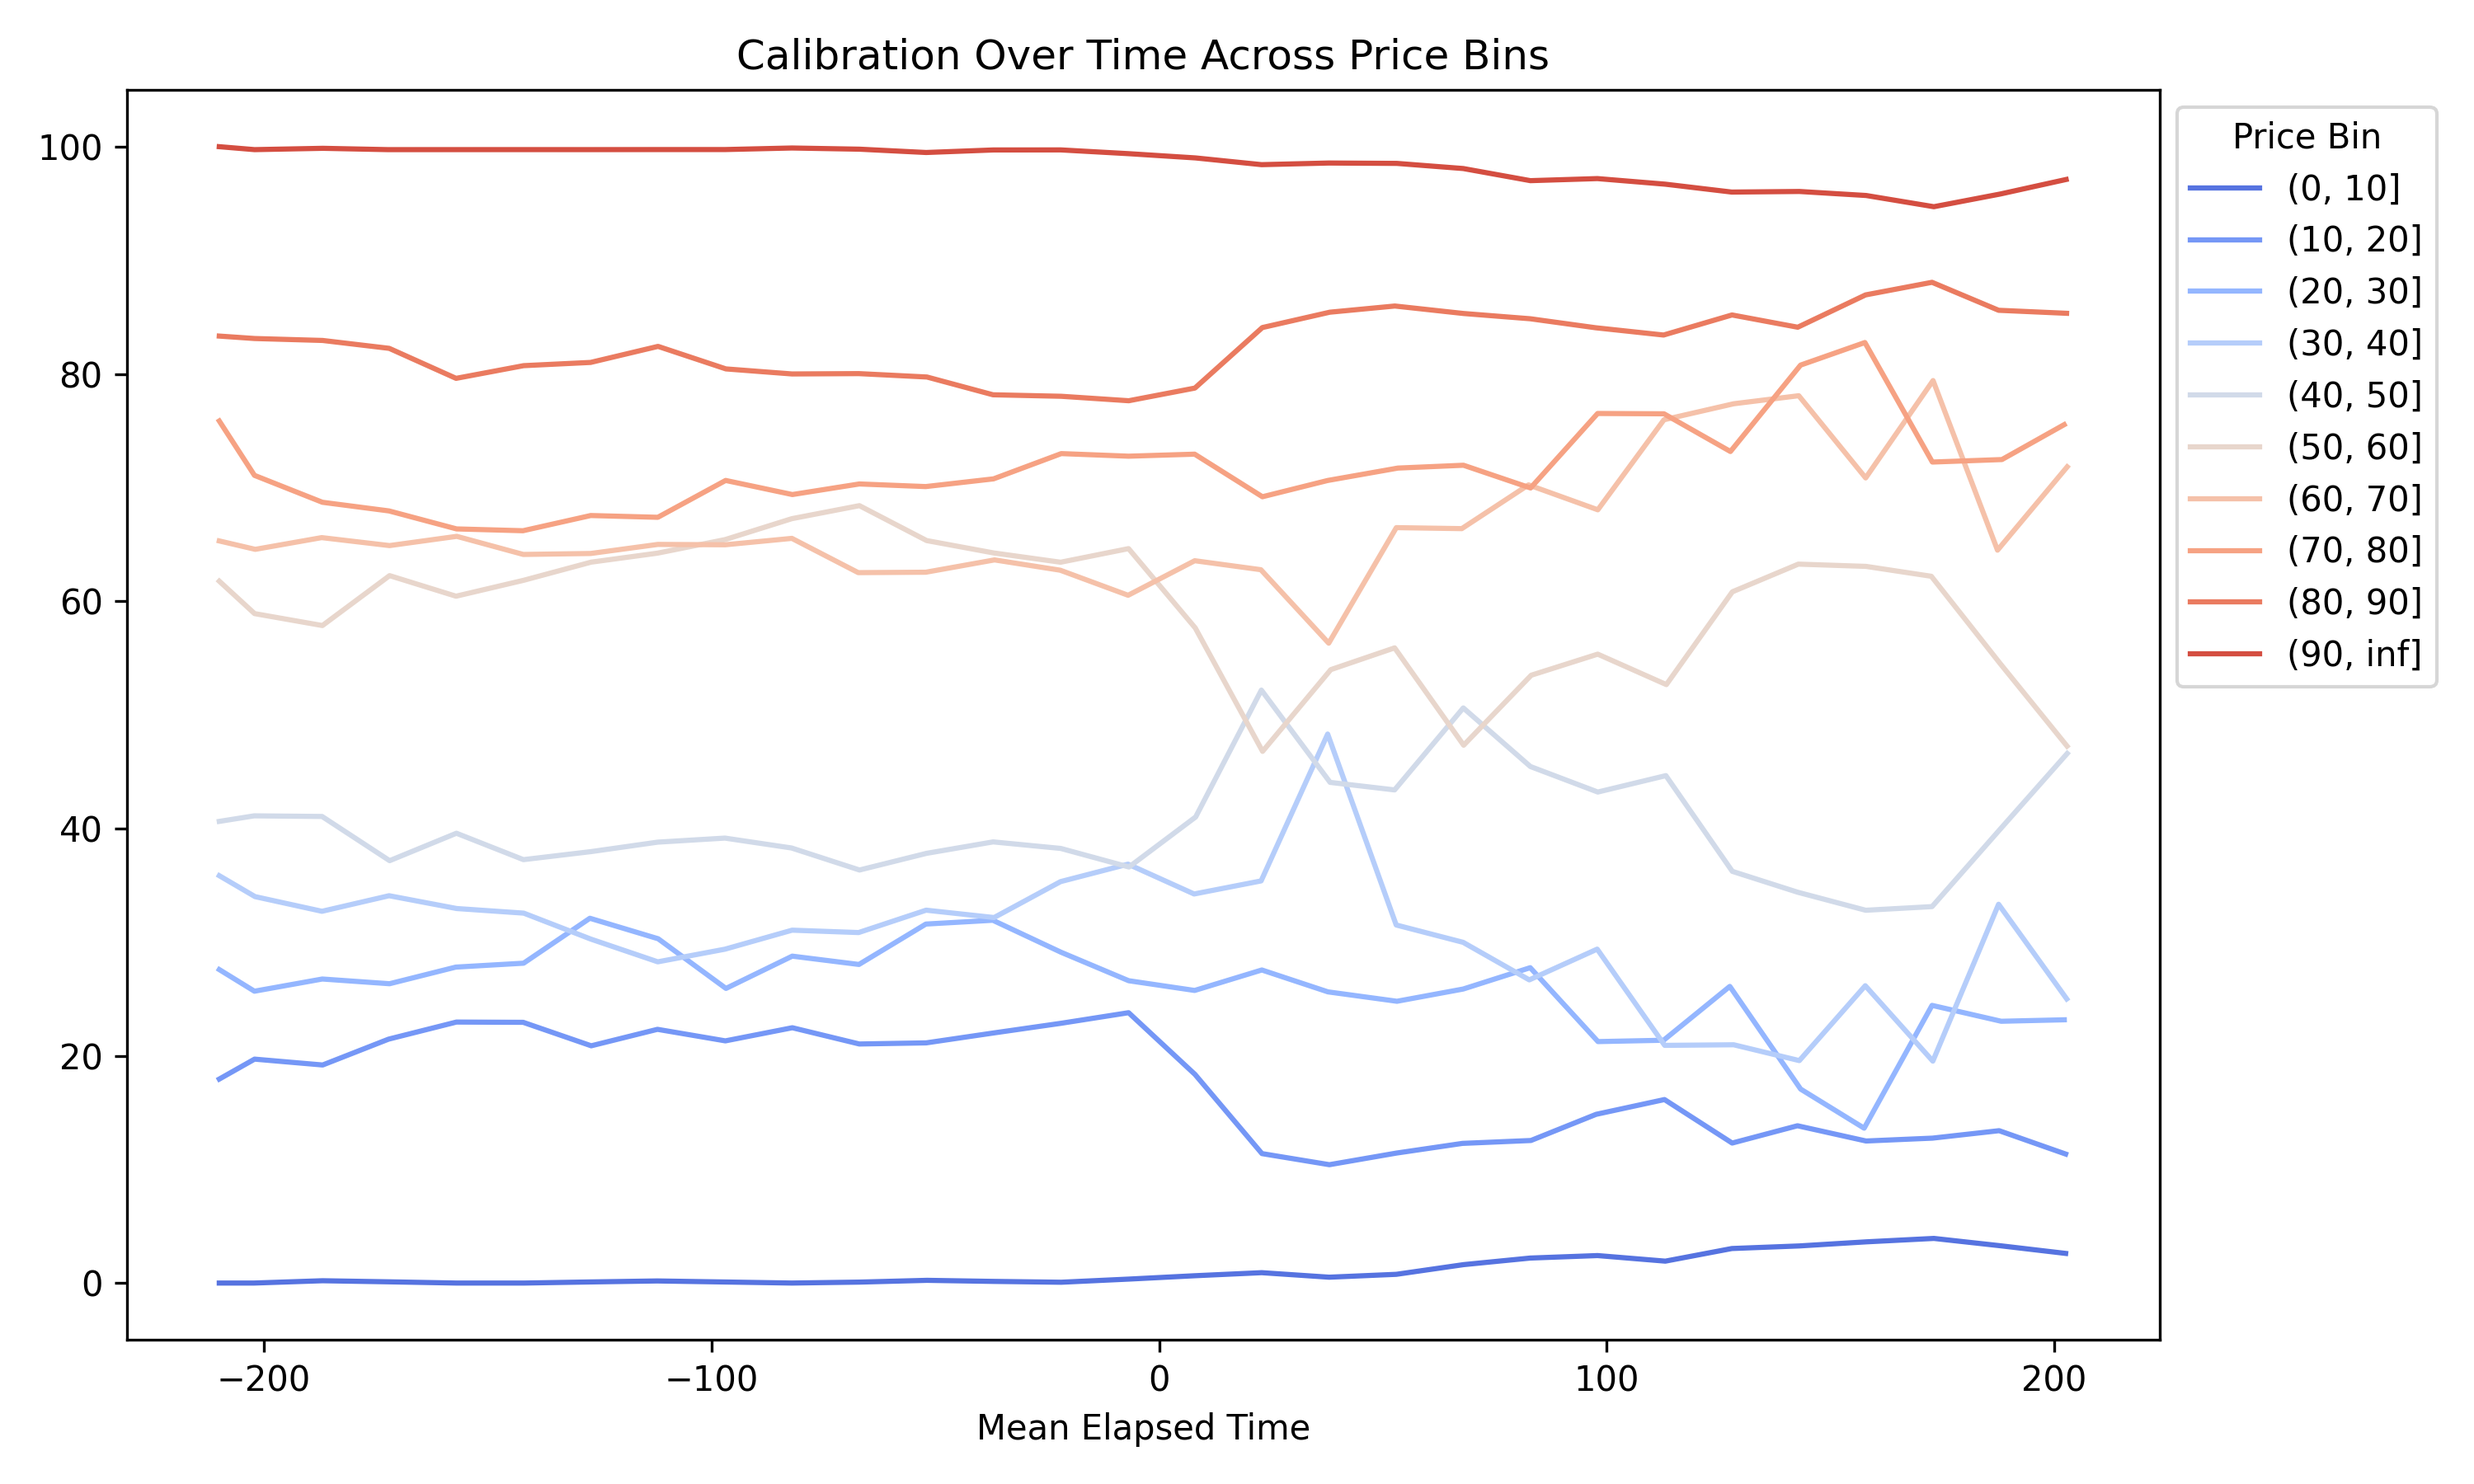
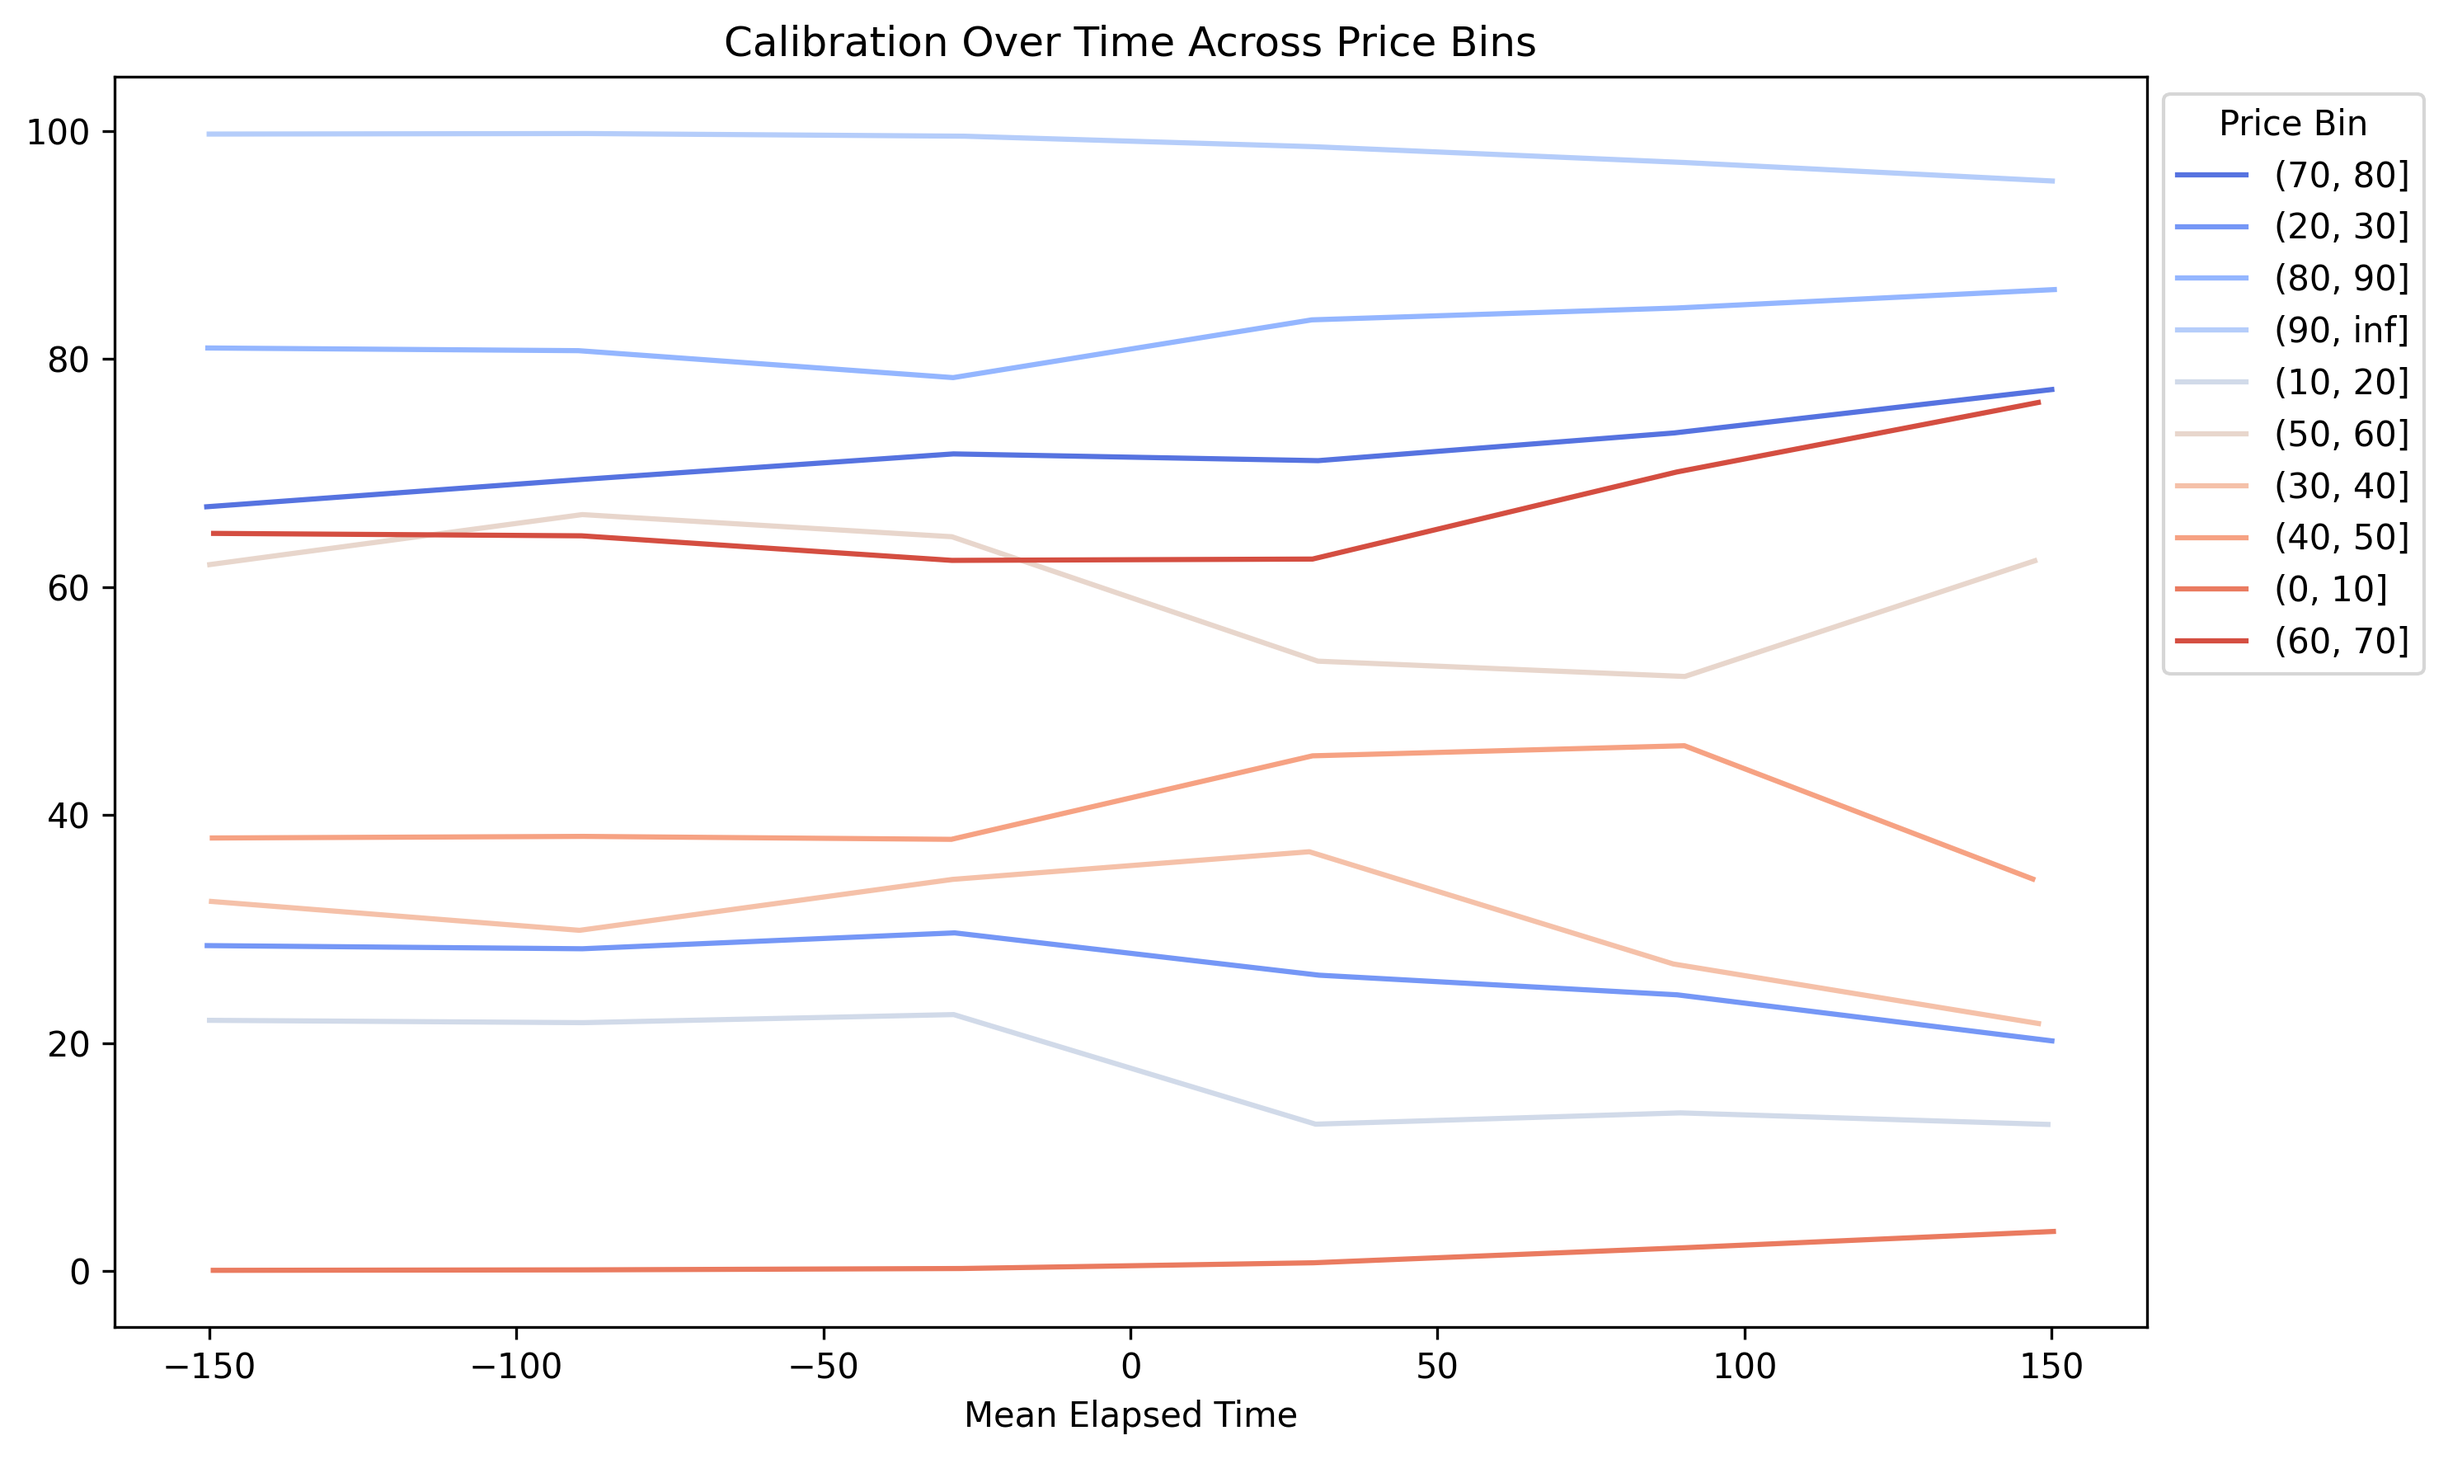
Improved experiment 2 plots.

diff --git a/nt_research/research/merger_arbitrage/experiment_2.py b/nt_research/research/merger_arbitrage/experiment_2.py
@@ -73,37 +73,44 @@ def create_calibration_over_time_chart(
             pl.col("price_bin").eq("(90, inf]")
         ).sort("trade_time_mean")
 
-    plt.figure(figsize=(10, 6))
+    _, ax = plt.subplots(figsize=(10, 6))
 
     # Lines
     if price_bin is not None:
-        aggregate_trades = (
-            aggregate_trades
-            .unpivot(index=['time_bin', 'price_bin'], on=['price_mean', 'result_mean', 'tstat']) 
+        aggregate_trades_sorted = aggregate_trades.sort(
+            pl.col("time_bin").str.extract(r"\((-?\d+)", 1).cast(pl.Int64)
+        )
+
+        tstat_values = aggregate_trades_sorted['tstat'].to_list()
+        time_bins = aggregate_trades_sorted['time_bin'].to_list()
+
+        aggregate_trades_unpivot = (
+            aggregate_trades_sorted
+            .unpivot(index=['time_bin', 'price_bin'], on=['price_mean', 'result_mean', 'tstat'])
+            .filter(
+                pl.col('variable').ne('tstat')
+            )
             .sort(
                 pl.col("time_bin").str.extract(r"\((-?\d+)", 1).cast(pl.Int64),
                 'variable'
             )
         )
 
-        tstat = (
-            aggregate_trades
-            .filter(
-                pl.col('variable').eq('tstat')
-            )
-            .sort(
-                pl.col("time_bin").str.extract(r"\((-?\d+)", 1).cast(pl.Int64),
-            )            
-            ['value'].to_list()
+        sns.barplot(
+            aggregate_trades_unpivot, x="time_bin", y="value", hue='variable', palette='gray', ax=ax
         )
 
-        sns.barplot(
-            aggregate_trades, x="time_bin", y="value", hue='variable', palette='gray'
-        )
+        labels = [f"{tb}\n($\\bf{{{ts:.2f}}}$)" for tb, ts in zip(time_bins, tstat_values)]
+        ax.set_xticks(range(len(labels)))
+        ax.set_xticklabels(labels)
+
+        # Get handles and labels from the plot
+        handles, _ = ax.get_legend_handles_labels()
+        ax.legend(handles, ['Price Mean', 'Result Mean'])
 
         match price_bin:
             case "(90, inf]":
-                plt.ylim(90, 100)
+                ax.set_ylim(90, 100)
 
             case _:
                 raise ValueError(f"Unsupported price bin: {price_bin}")
@@ -115,20 +122,22 @@ def create_calibration_over_time_chart(
             y="result_mean",
             hue="price_bin",
             palette="coolwarm",
+            ax=ax
         )
 
     # Format
-    plt.title(title)
-    plt.ylabel(None)
-    plt.xlabel("Mean Elapsed Time")
+    ax.set_title(title)
+    ax.set_ylabel(None)
+    ax.set_xlabel("Time Bin\n($\\bf{T\\text{-}stat}$)" if price_bin is not None else "Mean Elapsed Time")
 
     if price_bin is None:
-        plt.legend(title="Price Bin", bbox_to_anchor=(1, 1), loc="upper left")
-        plt.tight_layout()
+        ax.legend(title="Price Bin", bbox_to_anchor=(1, 1), loc="upper left")
+
+    plt.tight_layout()
 
     # Save/display
     if file_name is not None:
-        plt.savefig(file_name, dpi=300)
+        plt.savefig(file_name, dpi=300, bbox_inches='tight')
     else:
         plt.show()
 
@@ -234,42 +243,40 @@ if __name__ == "__main__":
     # Get aggregate trades
     aggregate_trades = get_aggregate_trades(trades)
 
-    # # Create all bins result
-    # create_calibration_over_time_chart(
-    #     aggregate_trades,
-    #     title="Calibration Over Time Across Price Bins",
-    #     file_name=f"{folder}/calibration-over-time-across-bins.png",
-    # )
-
-    print(aggregate_trades)
+    # Create all bins result
+    create_calibration_over_time_chart(
+        aggregate_trades,
+        title="Calibration Over Time Across Price Bins",
+        file_name=f"{folder}/calibration-over-time-across-bins.png",
+    )
 
     # Create all bins result
     create_calibration_over_time_chart(
         aggregate_trades,
         price_bin="(90, inf]",
         title="(90, inf] Bin Calibration Over Time",
-        # file_name=f"{folder}/calibration-over-time-top-bin.png",
+        file_name=f"{folder}/calibration-over-time-top-bin.png",
     )
 
-    # # Create counts chart
-    # create_count_over_time_chart(
-    #     aggregate_trades,
-    #     price_bin="(90, inf]",
-    #     title="(90, inf] Bin Count Over Time",
-    #     file_name=f"{folder}/count-over-time-top-bin.png",
-    # )
+    # Create counts chart
+    create_count_over_time_chart(
+        aggregate_trades,
+        price_bin="(90, inf]",
+        title="(90, inf] Bin Count Over Time",
+        file_name=f"{folder}/count-over-time-top-bin.png",
+    )
 
-    # # Create tstat chart
-    # create_tstat_chart(
-    #     aggregate_trades,
-    #     title="T-stat Count Over Time Across Price Bins",
-    #     file_name=f"{folder}/tstat-over-time.png",
-    # )
+    # Create tstat chart
+    create_tstat_chart(
+        aggregate_trades,
+        title="T-stat Count Over Time Across Price Bins",
+        file_name=f"{folder}/tstat-over-time.png",
+    )
 
-    # # Create tstat chart top bin
-    # create_tstat_chart(
-    #     aggregate_trades,
-    #     price_bin="(90, inf]",
-    #     title="(90, inf] T-stat Count Over Time",
-    #     file_name=f"{folder}/tstat-over-time-top-bin.png",
-    # )
+    # Create tstat chart top bin
+    create_tstat_chart(
+        aggregate_trades,
+        price_bin="(90, inf]",
+        title="(90, inf] T-stat Count Over Time",
+        file_name=f"{folder}/tstat-over-time-top-bin.png",
+    )
